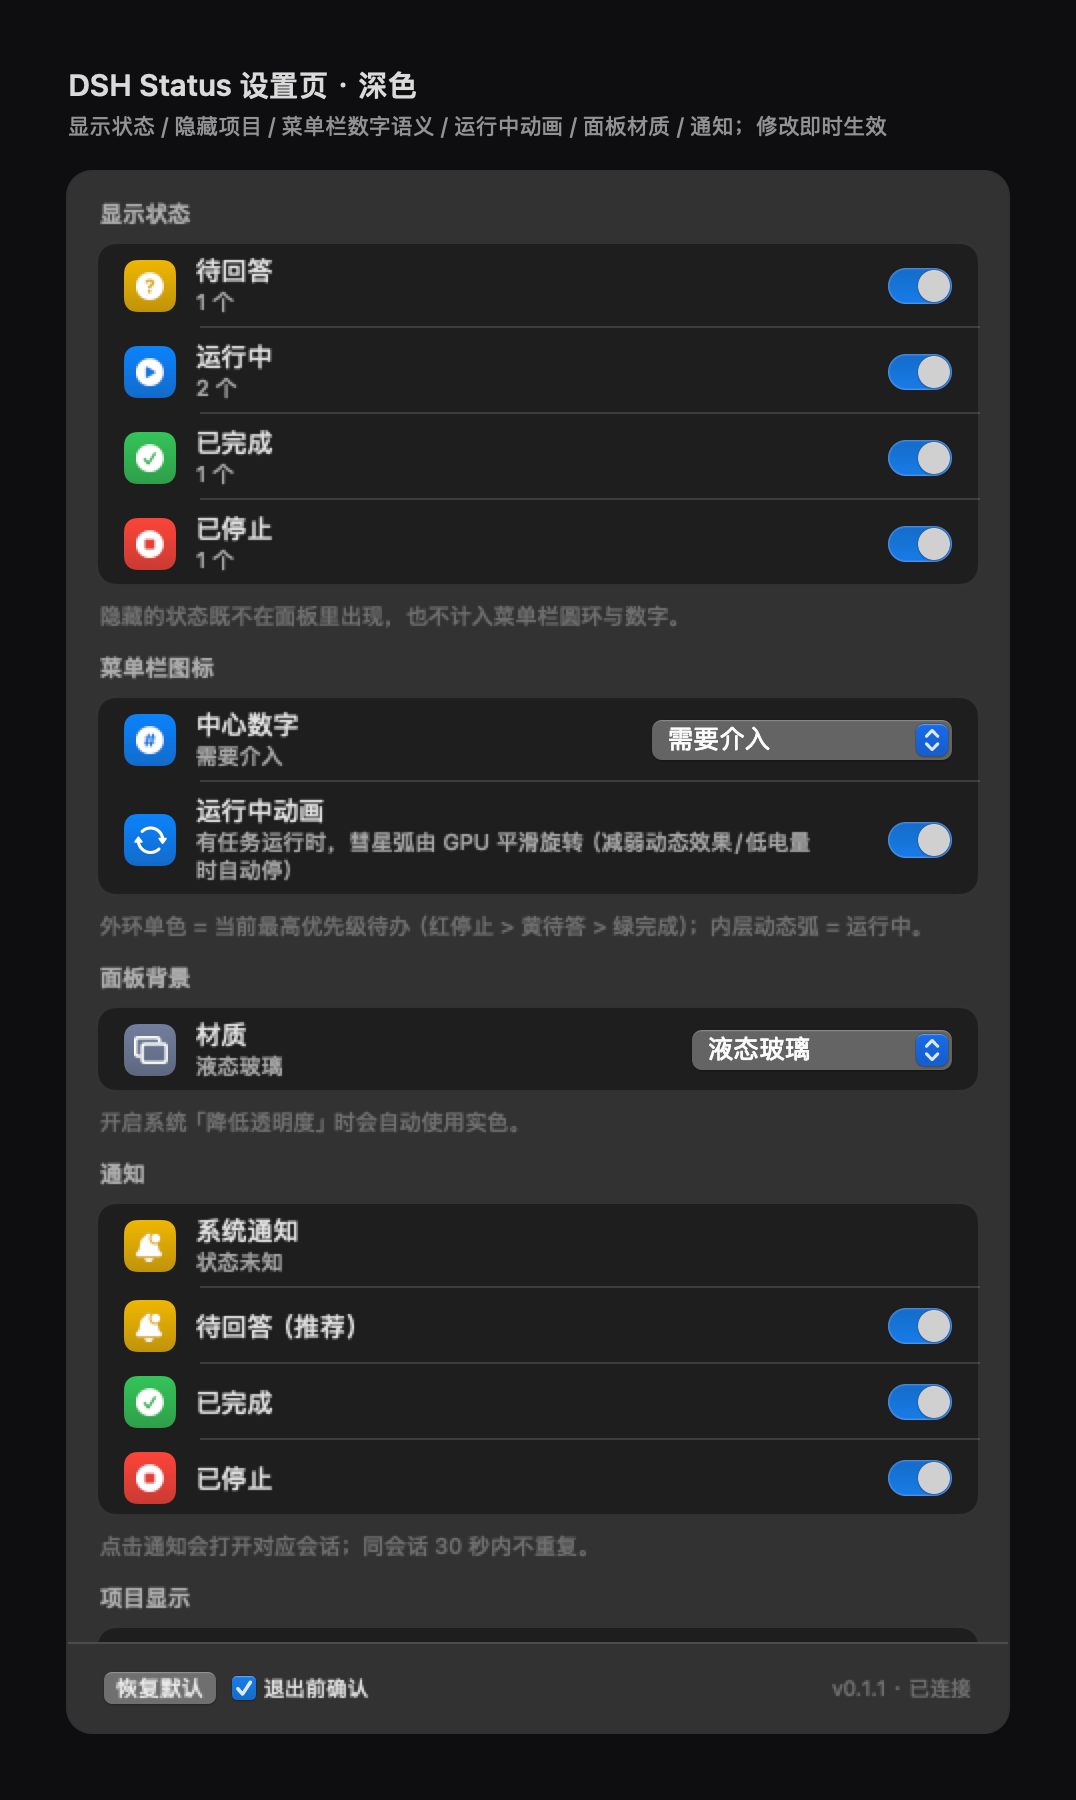
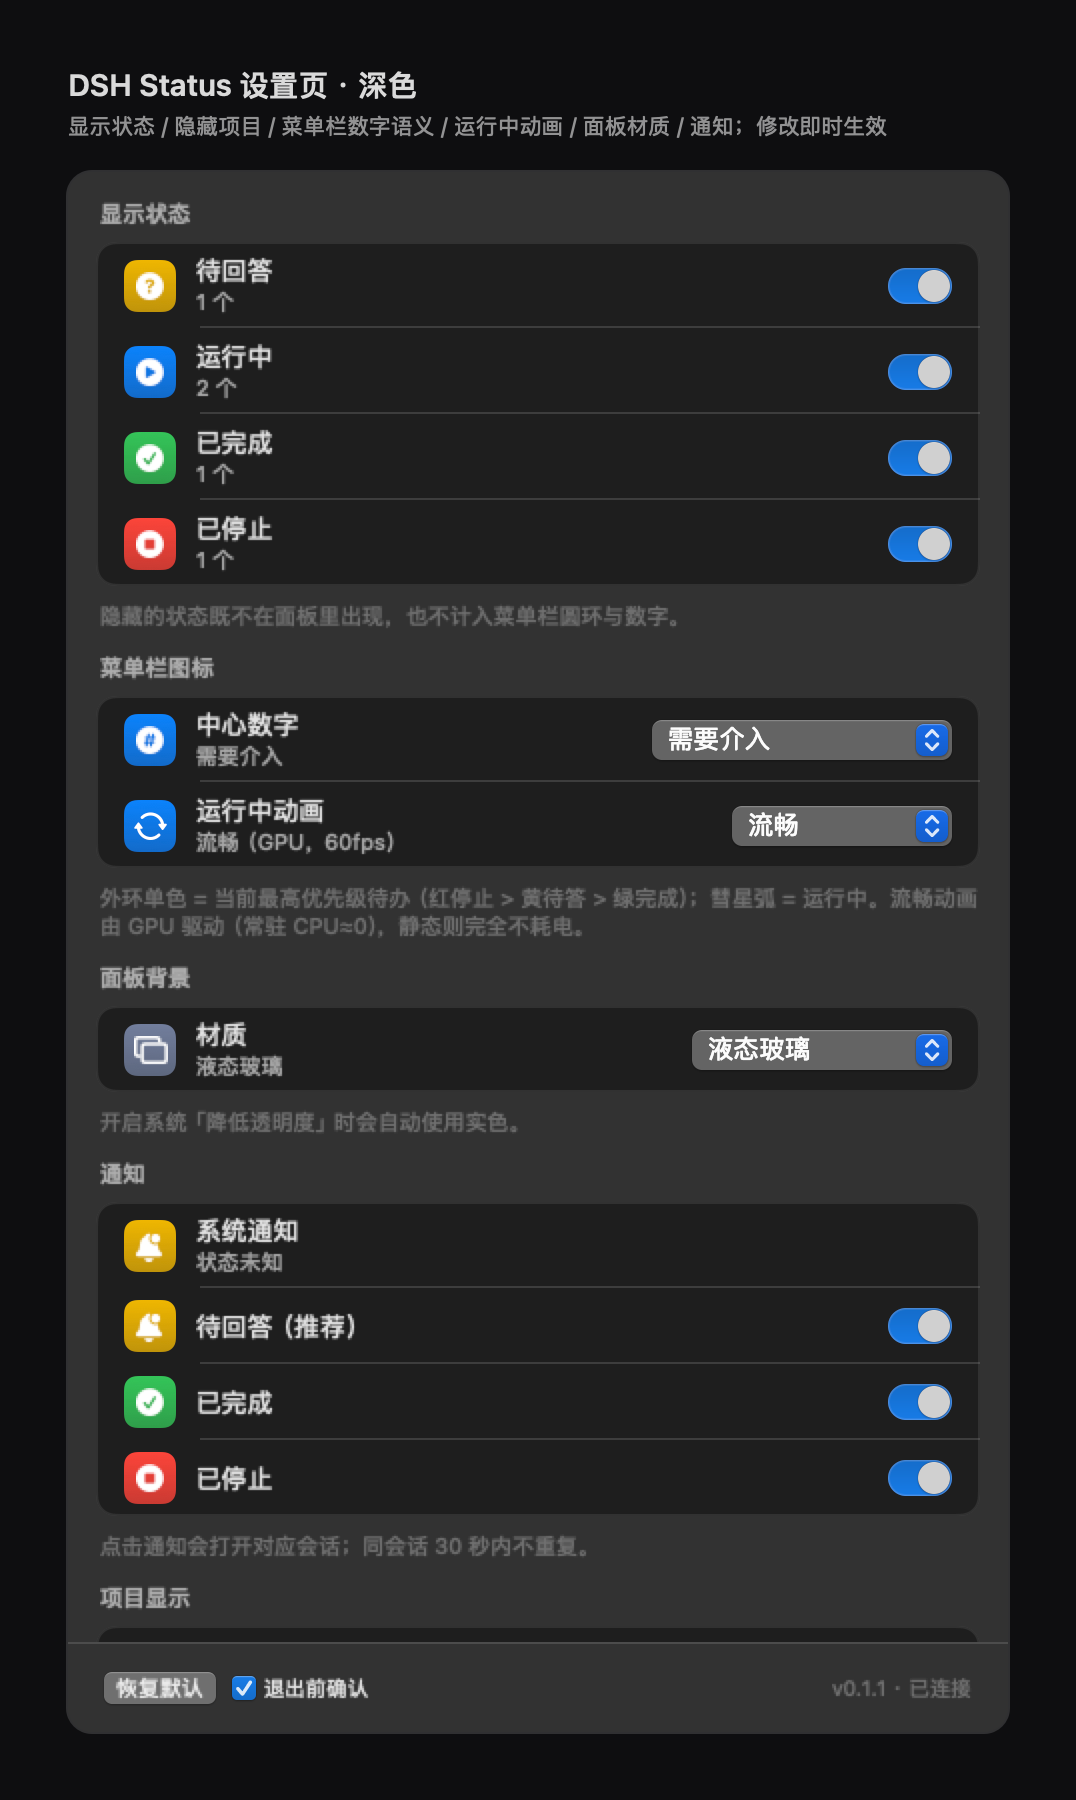
fix(app): CA 动画去重防卡顿 + 变节奏旋转；运行中动画改为流畅/静态设置

Changed region(s): [[0.092, 0.4356, 0.9201, 0.5289]]

diff --git a/app/Sources/DSHStatusBar/AnimatedIconView.swift b/app/Sources/DSHStatusBar/AnimatedIconView.swift
@@ -13,6 +13,7 @@ final class AnimatedIconView: NSView {
     private var currentModel: IconModel?
     private var currentAppearance: NSAppearance?
     private var cometSpec: MenuBarIconRenderer.CometSpec?
+    private var lastSignature: String?
 
     override var isFlipped: Bool { false }
 
@@ -52,7 +53,12 @@ final class AnimatedIconView: NSView {
 
     // MARK: 更新
 
-    func update(model: IconModel, appearance: NSAppearance, animate: Bool) {
+    func update(model: IconModel, appearance: NSAppearance, animate: Bool, force: Bool = false) {
+        let dark = appearance.bestMatch(from: [.darkAqua, .aqua]) == .darkAqua
+        let signature = "\(model.statuses.map(\.rawValue).joined(separator: ","))|\(model.connected)|\(model.numberMode.rawValue)|\(dark)|\(animate)"
+        if !force, signature == lastSignature { return }
+        lastSignature = signature
+
         currentModel = model
         currentAppearance = appearance
 
@@ -71,7 +77,8 @@ final class AnimatedIconView: NSView {
     /// 主题变化时只更新颜色，不重置动画。
     func refreshAppearance(_ appearance: NSAppearance) {
         guard let model = currentModel else { return }
-        update(model: model, appearance: appearance, animate: cometLayer.animation(forKey: "spin") != nil)
+        update(model: model, appearance: appearance,
+               animate: cometLayer.animation(forKey: "spin") != nil, force: true)
     }
 
     // MARK: 彗星弧
@@ -103,18 +110,26 @@ final class AnimatedIconView: NSView {
         cometLayer.removeAllAnimations()
         guard animate else { return }
 
-        let spin = CABasicAnimation(keyPath: "transform.rotation.z")
-        spin.fromValue = 0
-        spin.toValue = -2 * Double.pi     // 顺时针
-        spin.duration = 2.4
+        // 旋转：4 圈 / 7.2s，分段速度不同（伸长期快、收缩期慢）→ 每圈落点都不重复
+        let spin = CAKeyframeAnimation(keyPath: "transform.rotation.z")
+        spin.values = [0, -2.2 * Double.pi, -4.4 * Double.pi, -6.6 * Double.pi, -8 * Double.pi]
+        spin.keyTimes = [0, 0.24, 0.50, 0.76, 1.0]
+        spin.duration = 7.2
         spin.repeatCount = .infinity
-        spin.timingFunction = CAMediaTimingFunction(name: .linear)
+        spin.calculationMode = .linear
+        spin.timingFunctions = [
+            CAMediaTimingFunction(name: .easeInEaseOut),
+            CAMediaTimingFunction(name: .easeInEaseOut),
+            CAMediaTimingFunction(name: .easeInEaseOut),
+            CAMediaTimingFunction(name: .easeInEaseOut)
+        ]
         cometLayer.add(spin, forKey: "spin")
 
+        // 呼吸：1.6s 单程（半周期），与旋转周期不整除 → 图案持续变化
         let breathe = CABasicAnimation(keyPath: "strokeEnd")
-        breathe.fromValue = 0.24
+        breathe.fromValue = 0.22
         breathe.toValue = 0.60
-        breathe.duration = 1.2
+        breathe.duration = 1.6
         breathe.autoreverses = true
         breathe.repeatCount = .infinity
         breathe.timingFunction = CAMediaTimingFunction(name: .easeInEaseOut)

diff --git a/app/Sources/DSHStatusBar/Settings.swift b/app/Sources/DSHStatusBar/Settings.swift
@@ -435,7 +435,7 @@ struct SettingsView: View {
 
     private var iconSettings: some View {
         SettingsGroup("菜单栏图标",
-                      footnote: "外环单色 = 当前最高优先级待办（红停止 > 黄待答 > 绿完成）；内层动态弧 = 运行中。") {
+                      footnote: "外环单色 = 当前最高优先级待办（红停止 > 黄待答 > 绿完成）；彗星弧 = 运行中。流畅动画由 GPU 驱动（常驻 CPU≈0），静态则完全不耗电。") {
             SettingsMenuRow(
                 symbol: "number.circle.fill",
                 tint: Theme.statusColor(.running, scheme: colorScheme),
@@ -451,14 +451,21 @@ struct SettingsView: View {
                 .labelsHidden()
                 .frame(width: 150)
             }
-            SettingsToggleRow(
+            SettingsMenuRow(
                 symbol: "arrow.triangle.2.circlepath",
                 tint: Theme.statusColor(.running, scheme: colorScheme),
                 title: "运行中动画",
-                subtitle: "有任务运行时，彗星弧由 GPU 平滑旋转（减弱动态效果/低电量时自动停）",
-                isOn: $settings.runAnimation,
+                subtitle: settings.runAnimation ? "流畅（GPU，60fps）" : "静态（不耗电）",
                 showDivider: false
-            )
+            ) {
+                Picker("", selection: $settings.runAnimation) {
+                    Text("流畅").tag(true)
+                    Text("静态").tag(false)
+                }
+                .pickerStyle(.menu)
+                .labelsHidden()
+                .frame(width: 110)
+            }
         }
     }
 

diff --git a/app/Sources/DSHStatusBar/MenuBarIconRenderer.swift b/app/Sources/DSHStatusBar/MenuBarIconRenderer.swift
@@ -88,14 +88,6 @@ enum MenuBarIconRenderer {
         }
     }
 
-    /// 一次性过渡帧（用于无 CA 时的降级动效）。
-    static func transitionImage(for model: IconModel, appearance: NSAppearance, progress: CGFloat) -> NSImage {
-        render(width: canvas, height: canvas, appearance: appearance) { _ in
-            draw(model: model, appearance: appearance, includeComet: false,
-                 cometSweep: (start: 90 - (1 - progress) * 200, sweep: 120 * (0.35 + 0.65 * progress)))
-        }
-    }
-
     /// 彗星弧的几何参数（半径/线宽）与颜色。返回 nil 表示当前状态没有运行中动画。
     struct CometSpec {
         let radius: CGFloat
